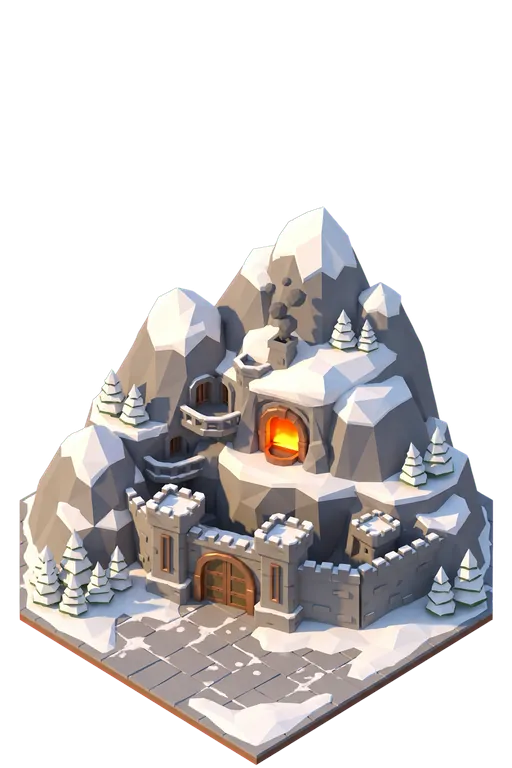
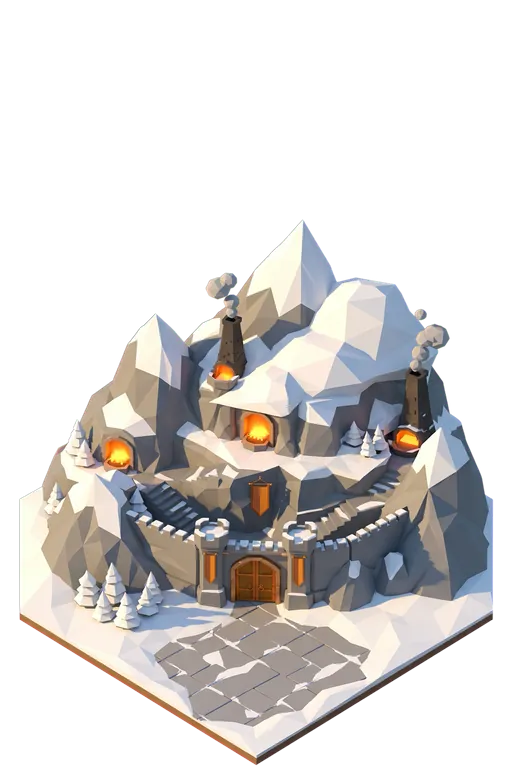
Distinct Dwarf city tiers and forest-spire Elf T2/T3
Dwarves now progress from a snowy hamlet to a modest hold, a twin-peak
forge hold, and a King's Hold carved with a crowned face behind gold doors.
Elf tiers 2-3 become slim gold-capped spires rising from dense woods.

diff --git a/Eldermere/web/src/render/assets/cityMesh.ts b/Eldermere/web/src/render/assets/cityMesh.ts
@@ -908,8 +908,8 @@ const CITY_TIER_SCALE: Record<CityArtTier, number> = { 1: 0.86, 2: 0.93, 3: 1.0,
 const CITY_ART_TOP_PX: Record<FactionId, Record<CityArtTier, number>> = {
   humans: { 1: 173, 2: 185, 3: 190, 4: 175 },
   orcs: { 1: 248, 2: 206, 3: 189, 4: 187 },
-  elves: { 1: 258, 2: 215, 3: 178, 4: 67 },
-  dwarves: { 1: 273, 2: 188, 3: 206, 4: 209 },
+  elves: { 1: 258, 2: 212, 3: 190, 4: 67 },
+  dwarves: { 1: 273, 2: 182, 3: 219, 4: 204 },
 };
 
 /**
